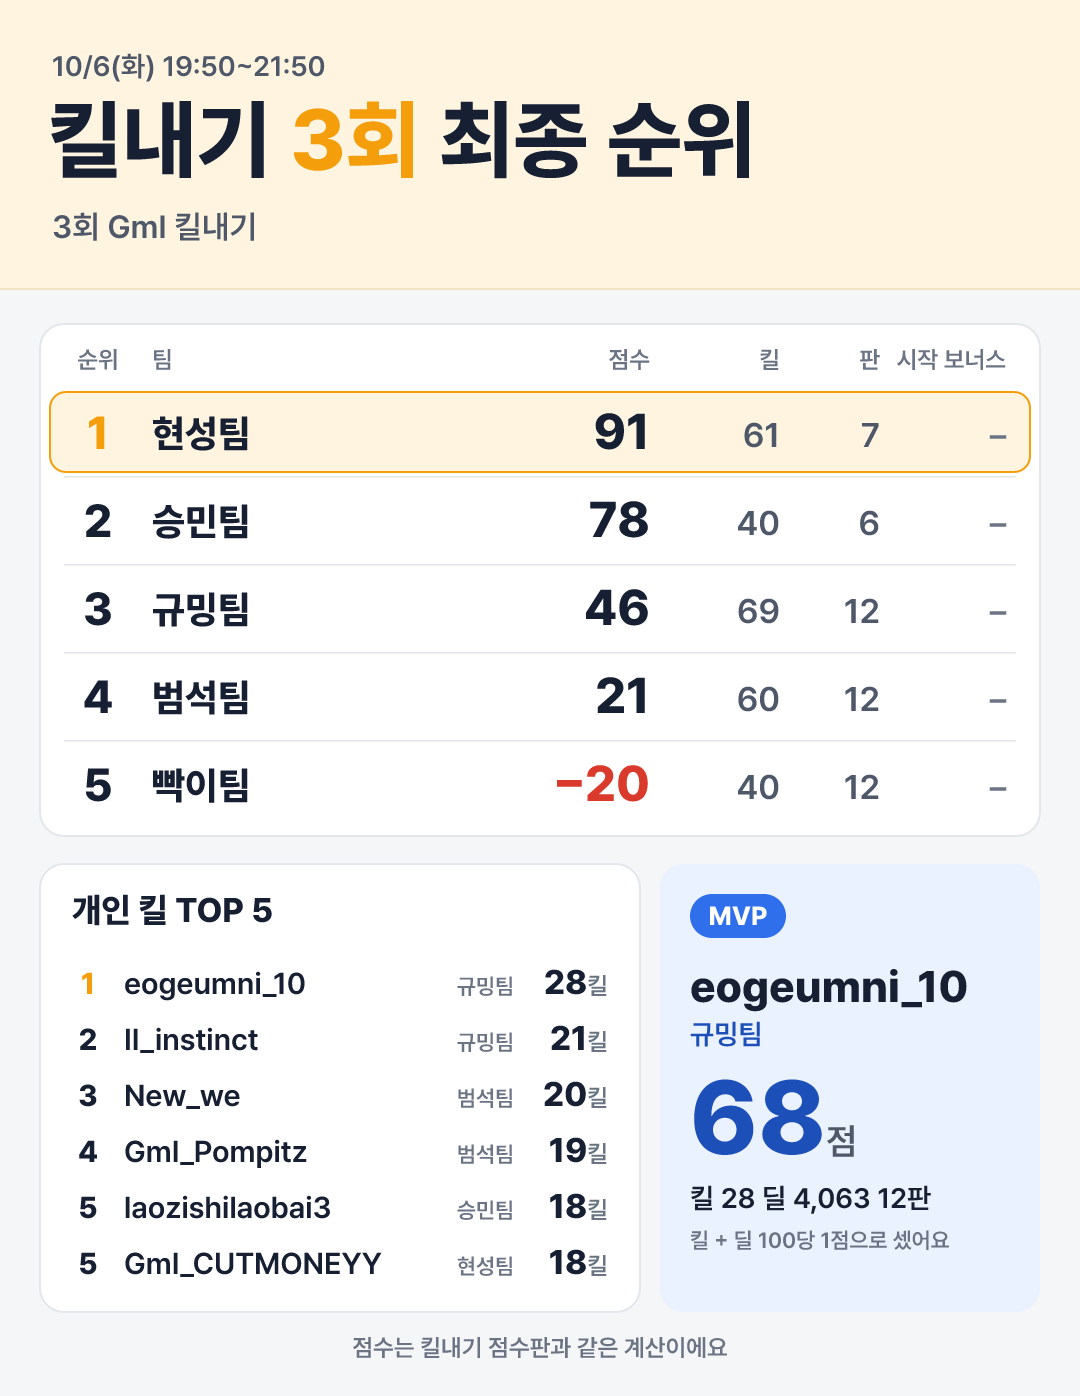
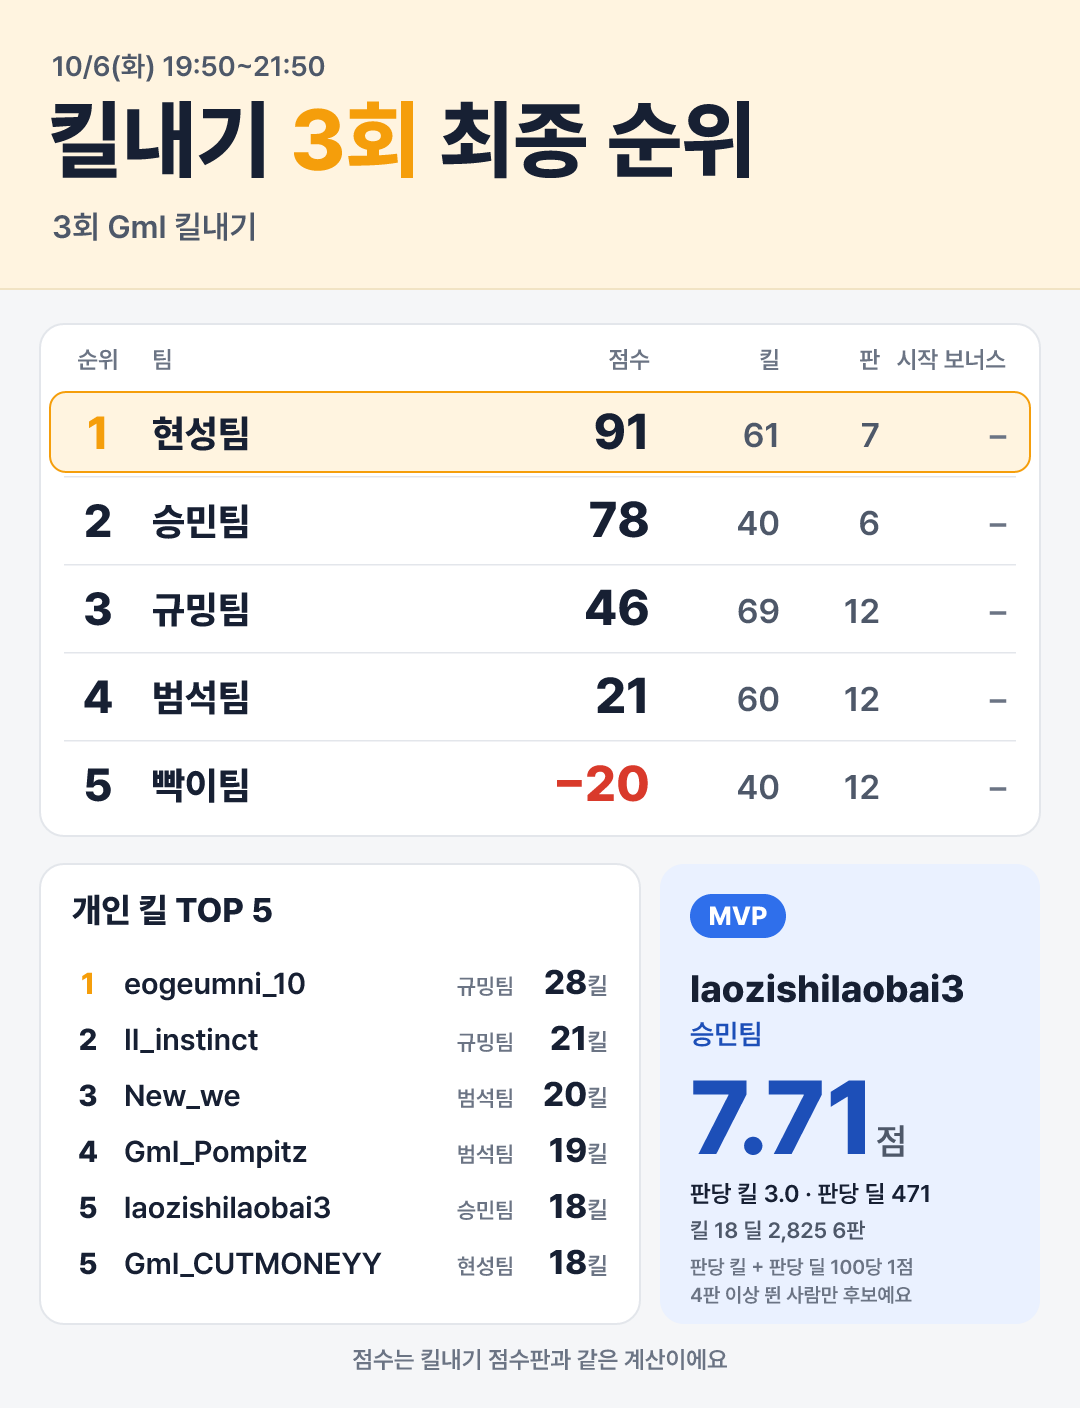
킬내기 포스터 MVP — 판당 킬 + 판당 딜 100당 1점 · 그 회차 4판 이상만 후보 (지휘 10/7)
합계 방식은 많이 뛴 팀이 유리해서 안 쓴다. 같으면 판당 킬 → 판당 딜 → 판 수 → 적은 사망 → 닉 순(소수 넷째 자리로 비교).
아무도 4판이 안 되면 「4판 이상 뛴 사람이 없어요」. 그림에 판당 점수 · 판당 킬 · 판당 딜 · 합계 · 후보 기준을 같이 쓴다.
3회 미리 보기를 다시 그렸다: MVP laozishilaobai3 7.71(6판 · 판당 킬 3.0 · 판당 딜 471). 계약 §1.9 갱신 · resvg 의존성 지휘 승인 표기.
시험: 4판 미만 제외 · 동점 순서 3단계 · 후보 없음 문구.

Claude-Session: https://claude.ai/code/session_01JejhYedoP16Jfgk9vFUF8D

diff --git a/docs/killrace-api.md b/docs/killrace-api.md
@@ -181,7 +181,7 @@
 「대회 종료 시 최종 순위 한 장」만 먼저 만든다(오너 원문 10/7 00:4x 「포스터형식으로 딱 봇이 디코클랜채팅창에 올릴 수 있지 않나?」 「ㅇㅇ 만들자」).
 실제로 한 장 올라가는 걸 본 뒤 종류를 늘린다.
 
-- **그리기** — SVG 문자열 → PNG. `@resvg/resvg-js` 2.6.2(새 의존성 · 리눅스 바이너리 4.2MB · 시스템 라이브러리 없음 · 브라우저 없음).
+- **그리기** — SVG 문자열 → PNG. `@resvg/resvg-js` 2.6.2(새 의존성 · 지휘 승인 10/7 · 리눅스 바이너리 4.2MB · 시스템 라이브러리 없음 · 브라우저 없음).
   - 브라우저를 띄우지 않는 이유 — Railway 7일 실측 메모리 평균 0.11GB · 최고 0.23GB · 한도 8GB 라 용량은 남는다. 그래도 크로미움을 빌드에 싣고
     그릴 때마다 수백 MB 를 대회 중 봇 · 집계와 같이 질 이유가 없다.
   - 이미 있는 sharp 를 쓰지 않는 이유 — 같은 SVG 를 그릴 수는 있었다(실측 +31MB). 그런데 복기 사진 쪽이 보안 때문에 SVG 해독기를
@@ -191,8 +191,10 @@
 - **그림에 들어가는 것** — 대회 이름 · 날짜(창 시작 ~ 끝) · 팀 순위(순위 · 팀 · 점수 · 킬 · 판 수 · 시작 보너스) · 개인 킬 상위 5(5위 동점은 같이 · 7줄까지) · MVP.
   - 숫자는 전부 `killrace.players()`(개인 기록 화면과 같은 계산 · 총점은 점수판과 같다)에서 받는다. 포스터가 점수를 다시 세지 않는다.
   - 닉은 인게임(스팀) 닉만. 디스코드 닉 · 계정 번호 · 경매 가격 · 상금은 넣지 않는다.
-  - **MVP = 킬 + 딜 100당 1점 합계 1위**(점수판과 같은 무게 · 같으면 킬 · 딜 · 적은 사망 · 닉 순). 판 수가 다른 팀이 섞이면 많이 뛴 선수가 유리하다 —
-    판당 평균으로 바꿀지는 오너 결정 대기(3회 값: 합계 기준 eogeumni_10 68점 · 판당 기준이면 laozishilaobai3).
+  - **MVP = 판당 킬 + 판당 딜 100당 1점 1위**(지휘 10/7 — 합계는 많이 뛴 팀이 유리해서 안 쓴다). **그 회차에서 4판 이상 뛴 선수만 후보**다.
+    같으면 판당 킬 → 판당 딜 → 판 수 많은 쪽 → 적은 사망 → 닉 순. 아무도 4판이 안 되면 MVP 칸에 「4판 이상 뛴 사람이 없어요」.
+    그림에는 판당 점수(소수 둘째 자리) · 판당 킬 · 판당 딜 · 합계(킬 · 딜 · 판) · 후보 기준을 같이 쓴다.
+    3회 값: laozishilaobai3 7.71점(6판 · 킬 18 · 딜 2,825 · 판당 킬 3.0 · 판당 딜 471). 종전 합계 1위 eogeumni_10 은 판당 5.72.
 - **게시** — 오너가 켠 뒤에만. 창 끝 + 45분(막판 집계 끝)이 지난 회차를 그 뒤 6시간 안에 **한 번** 올린다(켜기 전에 끝난 옛 회차를 몰아 올리지 않는다).
   - 1분마다 따로 돈다(server.js · 집계 tick 과 별개 · 집계 주기 그대로).
   - 같은 회차 두 번 방지 — 올리기 전에 ops_state `killrace:poster:<id>` 를 **삽입**으로 잡는다(같은 키가 있으면 409 = 다른 인스턴스가 먼저 잡음 · 배포 겹침 대비).
